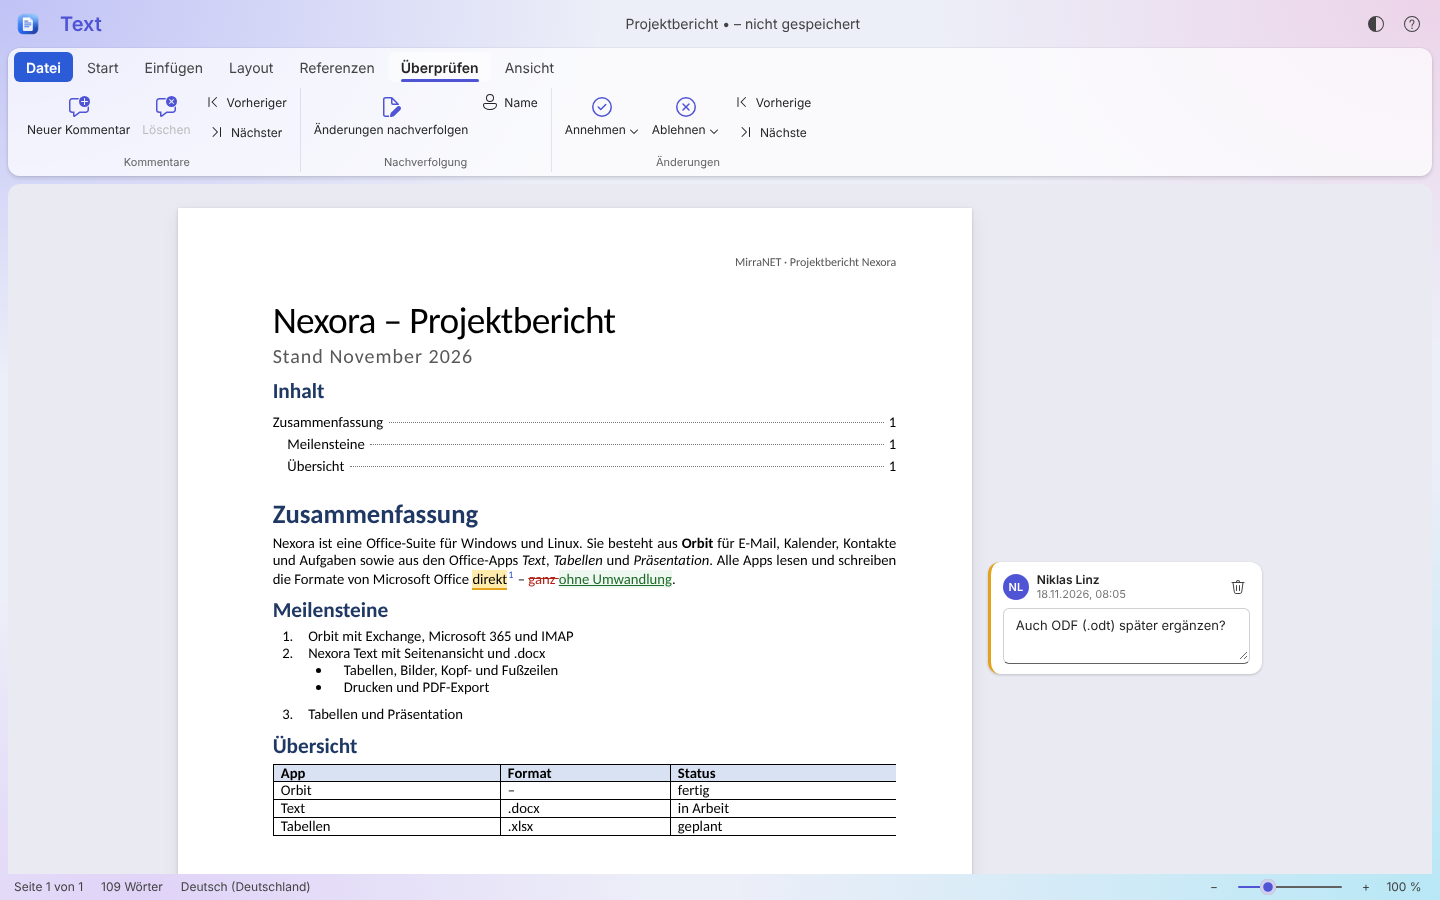
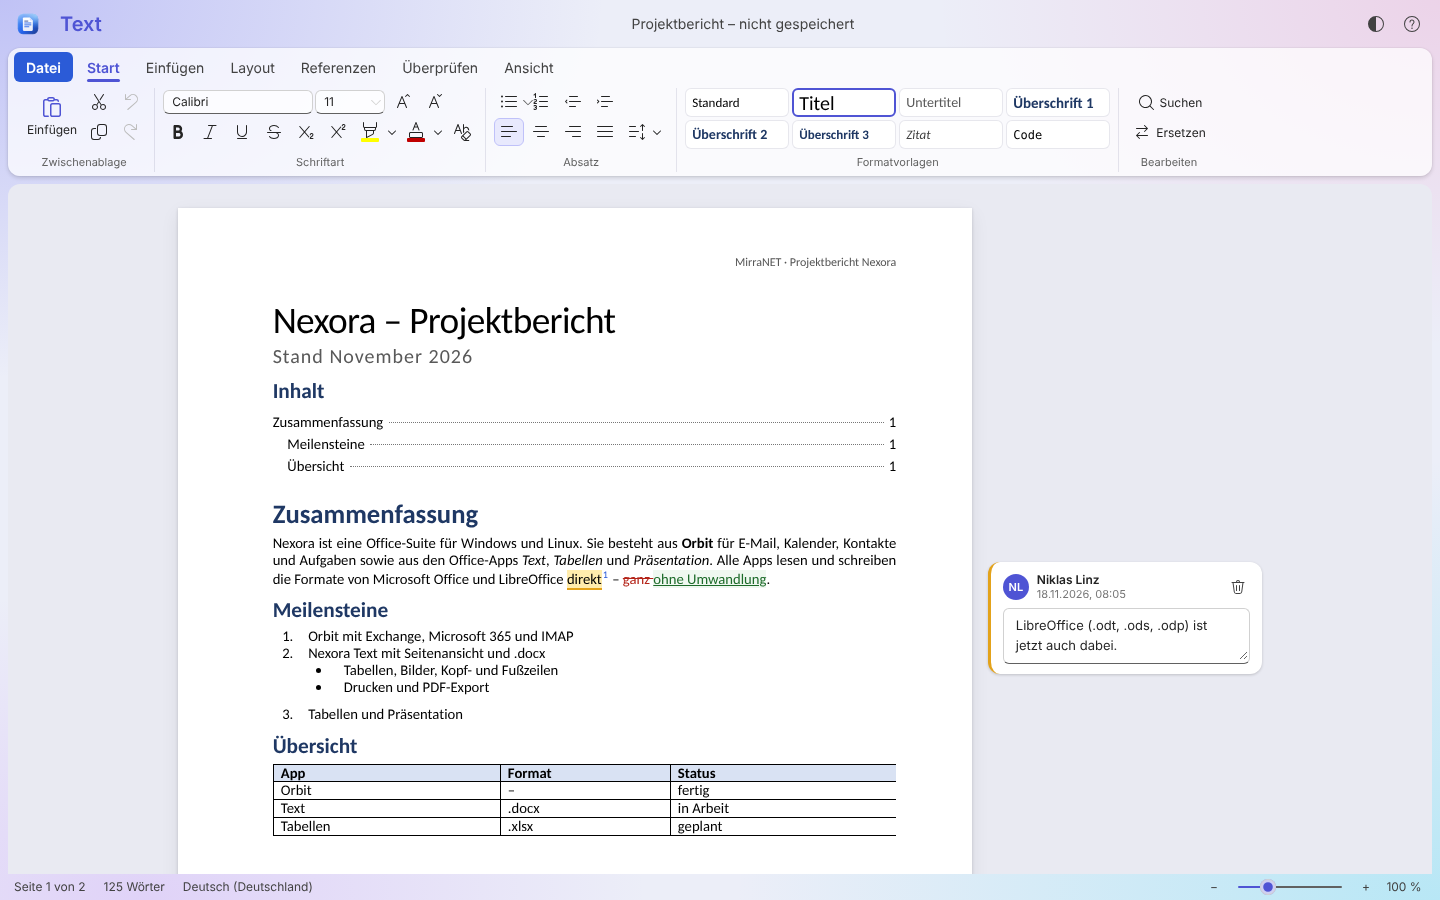
README: OpenDocument, new office features, screenshots
Claude-Session: https://claude.ai/code/session_018u6dQp5MznZjuAD1j969aW

diff --git a/apps/nexora/src/apps/text/sample.ts b/apps/nexora/src/apps/text/sample.ts
@@ -6,7 +6,7 @@ export function sampleDocument(): TextDocument {
   return {
     page: { ...A4 },
     title: "Projektbericht",
-    comments: [{ id: 1, author: "Niklas Linz", date: "2026-11-18T07:05:00Z", text: "Auch ODF (.odt) später ergänzen?" }],
+    comments: [{ id: 1, author: "Niklas Linz", date: "2026-11-18T07:05:00Z", text: "LibreOffice (.odt, .ods, .odp) ist jetzt auch dabei." }],
     author: "Niklas Linz",
     header: [{ type: "paragraph", align: "right", content: [t("MirraNET · Projektbericht Nexora")] }],
     footer: [{ type: "paragraph", align: "center", content: [t("Seite "), { type: "field", field: "page" }, t(" von "), { type: "field", field: "pages" }] }],
@@ -27,7 +27,7 @@ export function sampleDocument(): TextDocument {
           t("Tabellen", { italic: true }),
           t(" und "),
           t("Präsentation", { italic: true }),
-          t(". Alle Apps lesen und schreiben die Formate von Microsoft Office "),
+          t(". Alle Apps lesen und schreiben die Formate von Microsoft Office und LibreOffice "),
           t("direkt", { comment: 1 }),
           { type: "footnote", text: "Unterstützt werden .docx, .xlsx und .pptx (Office Open XML)." },
           t(" – "),

diff --git a/README.md b/README.md
@@ -15,15 +15,15 @@ An office suite for **Windows and Linux**, written in **Rust**, with a user inte
 | ├ Kalender: day, work week, week, month, recurring events, reminders | |
 | ├ Kontakte: address books, vCard import, address completion when writing mail | |
 | └ Aufgaben: task lists in the style of Microsoft To Do | |
-| **Nexora Text**: word processor with a Word-like page view, comments, tracked changes, footnotes and table of contents, `.docx` | 🚧 first version |
-| **Nexora Tabellen**: spreadsheets with ~180 functions, charts, conditional formatting, filters and named ranges, `.xlsx` | 🚧 first version |
-| **Nexora Präsentation**: slides with tables, charts, animations and transitions, slide show and presenter view, `.pptx` | 🚧 first version |
+| **Nexora Text**: word processor with a Word-like page view, comments, tracked changes, footnotes/endnotes, sections and table of contents, `.docx` and `.odt` | 🚧 first version |
+| **Nexora Tabellen**: spreadsheets with ~180 functions, charts, pivot tables, sparklines, data validation, conditional formatting, filters and named ranges, `.xlsx` and `.ods` | 🚧 first version |
+| **Nexora Präsentation**: slides with tables, charts, audio/video, entrance/emphasis/exit animations and transitions, slide show and presenter view, `.pptx` and `.odp` | 🚧 first version |
 
 | Text | Tabellen | Präsentation |
 | --- | --- | --- |
 | ![Text](docs/screenshots/text.png) | ![Tabellen](docs/screenshots/sheets.png) | ![Präsentation](docs/screenshots/slides.png) |
 
-The office apps read and write the Microsoft Office formats directly (no conversion step) and export PDF files (*Datei › Als PDF exportieren*). What a file contains beyond the apps' model (SmartArt, emphasis animations, …) is listed under *Datei › Informationen* when the file is opened.
+The office apps read and write the Microsoft Office formats and the OpenDocument formats of LibreOffice directly (no conversion step) and export PDF files (*Datei › Als PDF exportieren*). What a file contains beyond the apps' model (e.g. motion paths, charts in OpenDocument files) is listed under *Datei › Informationen* when the file is opened; a save in the OpenDocument format says what it could not keep. SmartArt is shown as the individual shapes of its stored drawing.
 
 | Dark mode | Nexora Setup (Windows) |
 | --- | --- |
@@ -214,10 +214,13 @@ Next:
 - [x] Präsentation: tables and charts on slides, animations and transitions
 - [x] Direct PDF export (WebView2 `PrintToPdf` on Windows, WebKitGTK print operation on Linux)
 - [x] Installer: system-wide installation, Orbit on its own or together with the office apps
+- [x] Text: page and section breaks with different page layouts, endnotes
+- [x] Tabellen: pivot tables, data validation, sparklines
+- [x] Präsentation: emphasis/exit animations, SmartArt (as shapes), audio and video
+- [x] OpenDocument formats (`.odt`, `.ods`, `.odp`)
 
 Next:
 
-- [ ] Text: page and section breaks with different page layouts, endnotes
-- [ ] Tabellen: pivot tables, data validation, sparklines
-- [ ] Präsentation: emphasis/exit animations, SmartArt, audio and video
-- [ ] OpenDocument formats (`.odt`, `.ods`, `.odp`)
+- [ ] OpenDocument: charts, pictures, conditional formatting and validation in `.ods`
+- [ ] Präsentation: motion paths, editable SmartArt
+- [ ] Tabellen: grouping and filters in pivot tables
